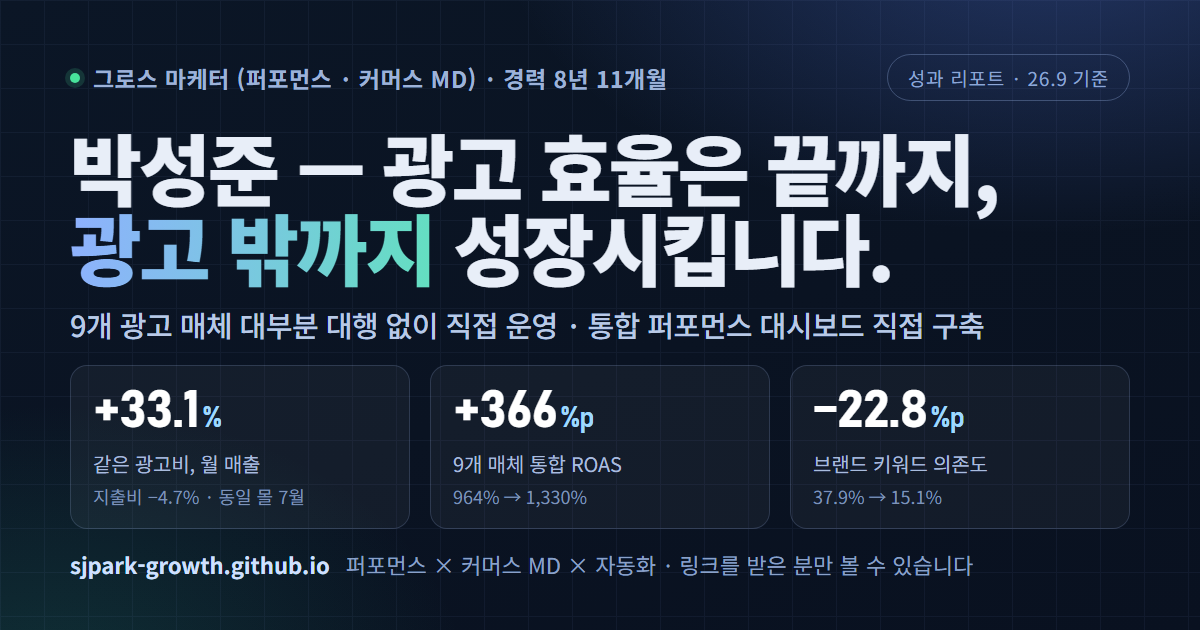
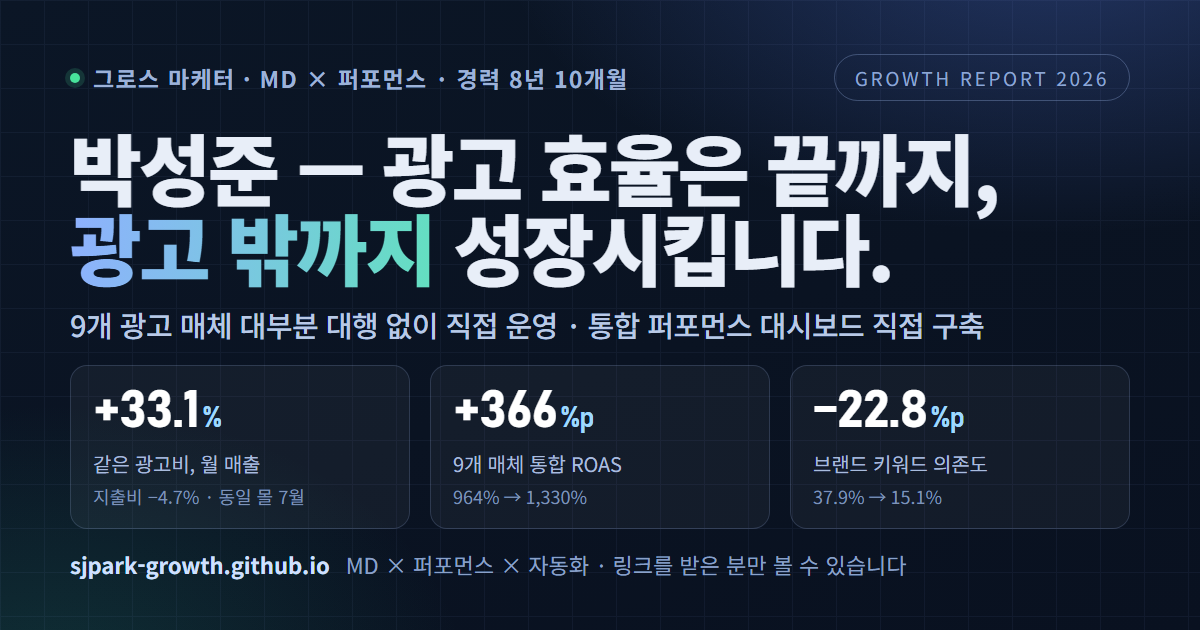
직무명 · 공유 카드는 공개본 그대로 (새 직무명은 draft/2026-10-11-title 에 보관)

Changed region(s): [[0.2775, 0.8746, 0.8017, 0.9349], [0.0925, 0.0905, 0.555, 0.1508], [0.7092, 0.0905, 0.925, 0.1508]]

diff --git a/index.html b/index.html
@@ -3,21 +3,21 @@
 <head>
 <meta charset="utf-8">
 <meta name="viewport" content="width=device-width, initial-scale=1">
-<title>박성준 — 그로스 마케터 (퍼포먼스 · 커머스 MD)</title>
+<title>박성준 · Growth Report 2026</title>
 <meta name="description" content="그로스 마케터 박성준 — MD × 퍼포먼스 · 9개 광고 매체 운영 · 자동화">
 <!-- 링크 공유 카드 — 카카오톡 · 슬랙 · 메일에서 제목·설명·썸네일이 뜨게 한다 (이미지는 로컬 파일) -->
 <meta property="og:type" content="profile">
-<meta property="og:site_name" content="박성준 · 그로스 마케터">
-<meta property="og:title" content="박성준 — 그로스 마케터 (퍼포먼스 · 커머스 MD)">
+<meta property="og:site_name" content="박성준 · Growth Report 2026">
+<meta property="og:title" content="박성준 · 그로스 마케터 — Growth Report 2026">
 <meta property="og:description" content="같은 광고비로 동일 몰 월 매출 +33.1% · 9개 매체 통합 ROAS 964% → 1,330% · 통합 퍼포먼스 대시보드 직접 구축">
 <meta property="og:url" content="https://sjpark-growth.github.io/">
 <meta property="og:image" content="https://sjpark-growth.github.io/assets/og-card.png">
 <meta property="og:image:width" content="1200">
 <meta property="og:image:height" content="630">
-<meta property="og:image:alt" content="박성준 · 그로스 마케터 — 핵심 성과 요약 카드">
+<meta property="og:image:alt" content="박성준 · Growth Report 2026 — 핵심 성과 요약 카드">
 <meta property="og:locale" content="ko_KR">
 <meta name="twitter:card" content="summary_large_image">
-<meta name="twitter:title" content="박성준 — 그로스 마케터 (퍼포먼스 · 커머스 MD)">
+<meta name="twitter:title" content="박성준 · 그로스 마케터 — Growth Report 2026">
 <meta name="twitter:description" content="같은 광고비로 동일 몰 월 매출 +33.1% · 통합 ROAS 964% → 1,330%">
 <meta name="twitter:image" content="https://sjpark-growth.github.io/assets/og-card.png">
 <meta name="color-scheme" content="light dark">
@@ -36,7 +36,7 @@
 
 <header class="mast" id="top">
   <div class="shell">
-    <a class="id" href="#top" style="text-decoration:none;color:inherit">박성준 <small>그로스 마케터</small></a>
+    <a class="id" href="#top" style="text-decoration:none;color:inherit">박성준 <small>Growth Report 2026</small></a>
     <nav aria-label="섹션 바로가기">
       <a href="#top">소개</a>
       <a href="#summary">요약</a>

diff --git a/assets/data.js b/assets/data.js
@@ -27,7 +27,7 @@ window.RESUME = {
   profile: {
     name: '박성준',
     nameEn: 'Park Seong-joon',
-    role: '그로스 마케터 (퍼포먼스 · 커머스 MD)',
+    role: '그로스 마케터 · MD × 퍼포먼스',
     career: '경력 8년 10개월',
     photo: 'assets/profile.jpg',   // JPEG — WebP 는 PDF 로 저장할 때 무손실로 풀려 한 장에 0.7MB 가 된다
     email: 'j1o2o1n7@naver.com',
